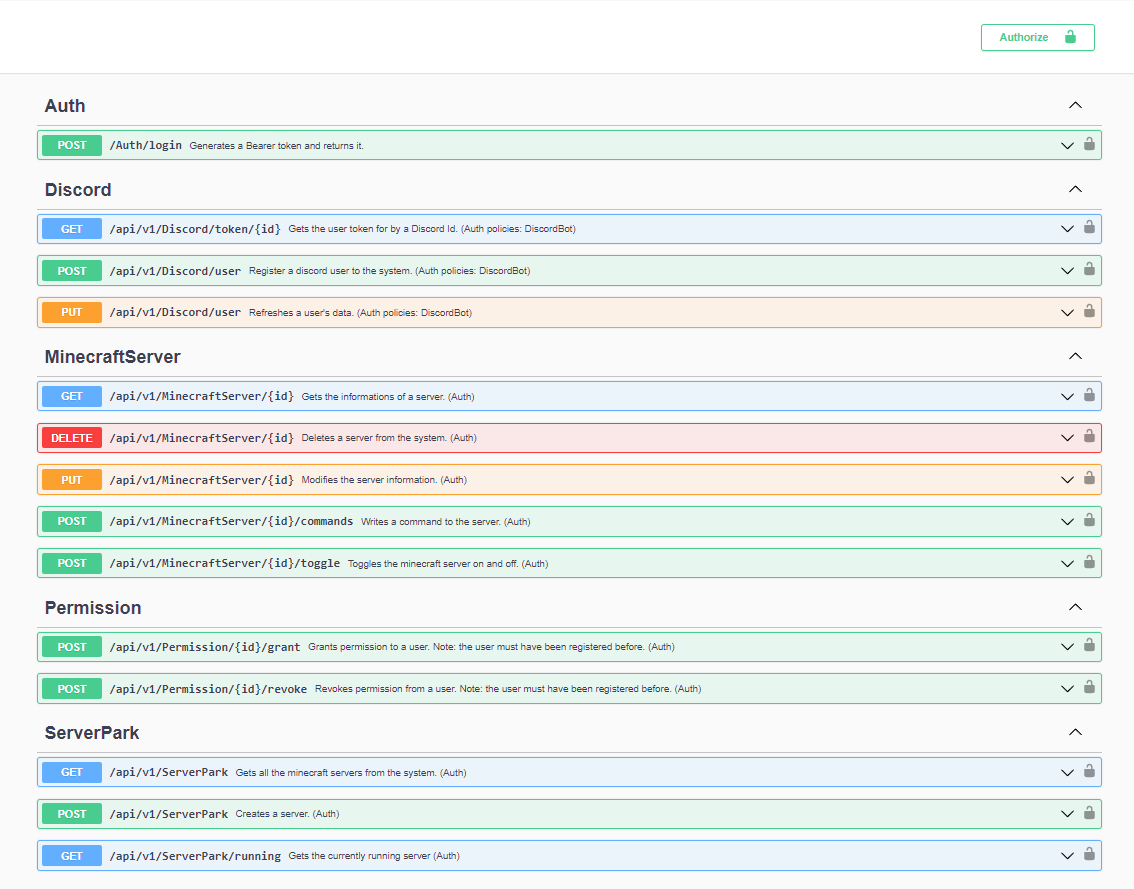
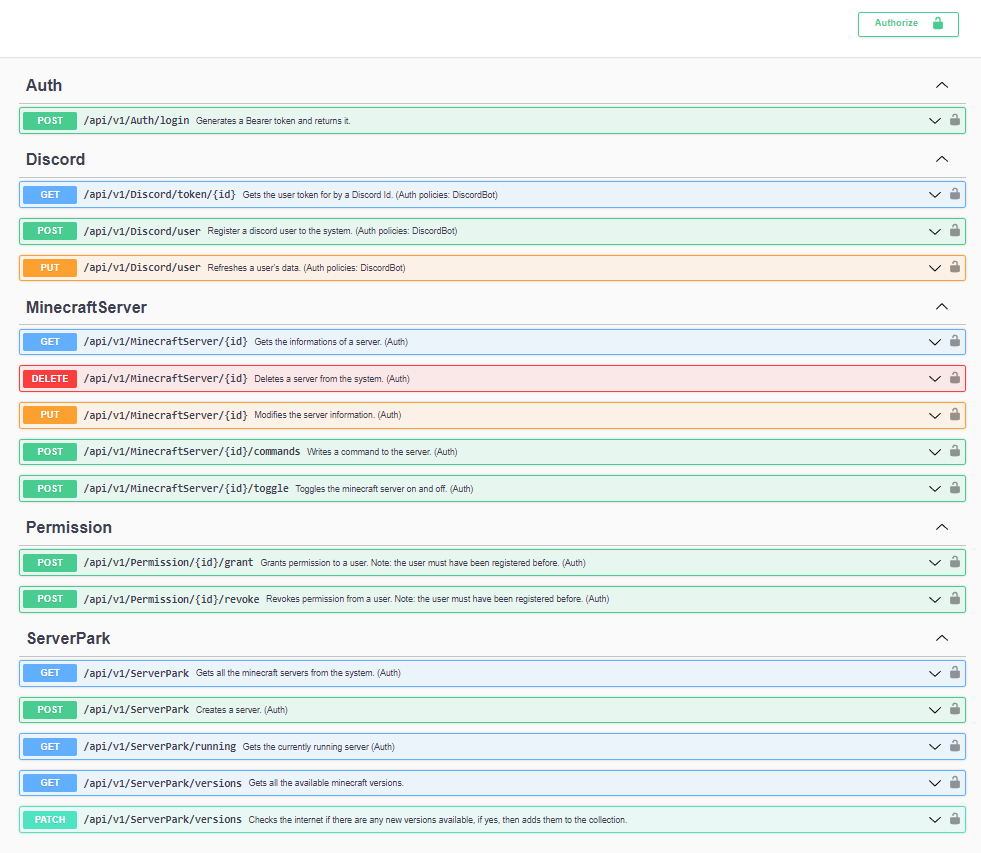
updated docs

Changed region(s): [[0.0, 0.0914, 0.9786, 1.0], [0.8563, 0.0, 0.9786, 0.061]]

diff --git a/README.md b/README.md
@@ -14,27 +14,36 @@ does not work, they might not even compile, but the Web API works perfectly, and
 ## Features:
 WEB API features:
 
-- Log in (only available through the discord bot)
-- Start a minecraft server from the available servers (only one active server at a time)
-- Stop the active minecraft server
-- Add a new server
-- Rename an existing server
-- Delete an existing server (by moving all it's files to the DeletedServer folder.
-- Get all the players who joined to the server and their online time
-- Get all the output of the minecraft server (including the commands of the players)
-- Write a command directly to the minecraft server process from the webpage
-- Grant permission for a discord user to use the system
-- Revoke permission for a discord user to not allow to use the system
+- Auth
+	- Currently the authentication flow is through the discord bot, which is not yet implemented. If you would like to still use the api, retrieve a test token by running the server and going to /api/v1/auth/login { "token": "test-acc", "platform": "discord"}
+
+
+- Minecraft server features
+	- Add a new server
+	- Modify server name and version
+	- Delete a server
+	- Start and stop a server (only one active server at a time)
+	- Get all the players who joined to the server and their online time
+	- Get all the output of the minecraft server (including the commands of the players)
+	- Write a command directly to the minecraft server process from the webapi
+
+- Permission system
+	- Grant permission for a discord user to use the system
+	- Revoke permission for a discord user to not allow to use the system
+
+- Now introducing Minecraft Versions
+	- Add a new server with a specified minecraft version
+	- If no version has been selected, then automatically the latest version will be used
+	- Upgrade a server to a newer version
+	- Downgrading a server to an older version is not allowed
+	- The available version's info is downloaded from [the wiki](https://minecraft.fandom.com/wiki/Java_Edition_version_history), and the server.jar is automatically downloaded if it is not found in the local storage.
+	- When creating a server or upgrading to a newer version, the server is set to a maintenance status. The maintenance is not started until a user manually starts the server. An other server can be started while there are servers in maintenance status.
 
 <img src="docs/images/api-endpoints.png">
 
 
 ## TODO:
 (Before starting the websites and discord bot)
-- Add versions to the minecraft servers (https://minecraft.fandom.com/wiki/Java_Edition_version_history)
-  - be able to select a version when creating a minecraft server
-  - be able to later change the selected version
-  - automatically download a version if it is not aéready downloaded
 - Change websockets to SignalR (https://stackoverflow.com/questions/28948517/how-do-i-generate-api-documentation-for-signalr)
 
 
